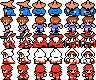
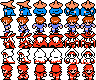
Added music & sound effects Fixed player sprite indexes

Changed region(s): [[0.3125, 0.0, 0.6562, 0.2]]

diff --git a/core/src/com/dommie/ffdemo/scenes/Hud.java b/core/src/com/dommie/ffdemo/scenes/Hud.java
@@ -1,5 +1,7 @@
 package com.dommie.ffdemo.scenes;
 
+import com.badlogic.gdx.Gdx;
+import com.badlogic.gdx.audio.Sound;
 import com.badlogic.gdx.backends.lwjgl.LwjglApplicationConfiguration;
 import com.badlogic.gdx.graphics.OrthographicCamera;
 import com.badlogic.gdx.graphics.Texture;
@@ -35,8 +37,11 @@ public class Hud implements Disposable
     private int curX;
     private int curY;
     private boolean done;
+    private boolean playText;
     float scale;
     //float offset;
+
+	private Sound textSound  = Gdx.audio.newSound(Gdx.files.internal("Music/SFX/Text/text.wav"));
 
 	public Hud(OrthographicCamera o)
 	{
@@ -46,6 +51,7 @@ public class Hud implements Disposable
 
 	public Hud(OrthographicCamera o, String[] texts)
 	{
+		playText = true;
 		scale = LwjglApplicationConfiguration.getDesktopDisplayMode().width /com.dommie.ffdemo.GameInfo.V_WIDTH;
 		//offset = com.dommie.ffdemo.GameInfo.V_WIDTH/2 - (LwjglApplicationConfiguration.getDesktopDisplayMode().width - (com.dommie.ffdemo.GameInfo.V_WIDTH * scale));
 		//System.out.println("OFFSETTTT: " + offset);
@@ -85,6 +91,12 @@ public class Hud implements Disposable
 			{
 				char toPlace = message.charAt(curChar);
 				curChar++;
+
+				if(toPlace != ' ' && playText)
+				{
+					textSound.play();
+					System.out.println("Played");
+				}
 
 				if (toPlace >= 65 && toPlace <= 74)
 					sprites[curY][curX] = new Sprite(new TextureRegion(letters, 8 * (toPlace - 65), 0, 8, 8));//Row 1 (A-J)
@@ -161,15 +173,20 @@ public class Hud implements Disposable
 
 	public void finishText()
 	{
+		playText = false;
 		while(!done)
 			update(5);
+		playText = true;
 	}
 
 	public void quitText()
 	{
 		System.out.println("QUIT TEXT");
 		done = true;
-		dispose();
+
+		//textSound.play();
+		destroy();
+
 		sprites = new Sprite[0][0];
 	}
 
@@ -185,7 +202,7 @@ public class Hud implements Disposable
 		this.width = width;
 		this.height = height;
 
-		dispose();
+		destroy();
 
 		letters = new Texture("Text/Chars.png");
         atlas = new TextureAtlas("Text/Textbox.atlas");
@@ -233,6 +250,12 @@ public class Hud implements Disposable
                 s.draw(sb);
     }
 
+    private void destroy()
+	{
+		atlas.dispose();
+		letters.dispose();
+	}
+
     @Override
     public void dispose()
     {
@@ -243,8 +266,8 @@ public class Hud implements Disposable
         */
 
         //region.getTexture().dispose();
-        atlas.dispose();
-        letters.dispose();
+        destroy();
+        textSound.dispose();
     }
 
 }

diff --git a/core/src/com/dommie/ffdemo/screens/MapScreen.java b/core/src/com/dommie/ffdemo/screens/MapScreen.java
@@ -2,6 +2,8 @@ package com.dommie.ffdemo.screens;
 
 import com.badlogic.gdx.Gdx;
 import com.badlogic.gdx.Input;
+import com.badlogic.gdx.audio.Music;
+import com.badlogic.gdx.audio.Sound;
 import com.badlogic.gdx.graphics.GL20;
 import com.badlogic.gdx.graphics.OrthographicCamera;
 import com.badlogic.gdx.graphics.g2d.TextureAtlas;
@@ -43,7 +45,6 @@ public abstract class MapScreen extends GameScreen{
     private NPC speakingNPC;
 
     private boolean paused;
-
     public MapScreen(GameInfo game, String mapName, float locX, float locY)
     {
     	//justPaused = false;
@@ -229,10 +230,7 @@ public abstract class MapScreen extends GameScreen{
 
     public boolean isTooFarLeft()
     {
-        if(player.b2body.getPosition().x+8 <= 14*16)
-            return true;
-        else
-            return false;
+		return player.b2body.getPosition().x + 8 <= 14 * 16;
     }
 
     public boolean isTooFarRight()
@@ -240,10 +238,7 @@ public abstract class MapScreen extends GameScreen{
         int mapWidth = prop.get("width", Integer.class)+1;
         int mapPixelWidth = mapWidth*16;
 
-        if(player.b2body.getPosition().x+8 >= mapPixelWidth - 14*16 - 1)
-            return true;
-        else
-            return false;
+		return player.b2body.getPosition().x + 8 >= mapPixelWidth - 14 * 16 - 1;
     }
 
     public boolean isTooFarUp()
@@ -251,18 +246,12 @@ public abstract class MapScreen extends GameScreen{
         int mapHeight = prop.get("height", Integer.class)+1;
         int mapPixelHeight = mapHeight*16;
 
-        if(player.b2body.getPosition().y+8 >= mapPixelHeight - 8*16 + 1)
-            return true;
-        else
-            return false;
+		return player.b2body.getPosition().y + 8 >= mapPixelHeight - 8 * 16 + 1;
     }
 
     public boolean isTooFarDown()
     {
-        if(player.b2body.getPosition().y+8 <= 8*16)
-            return true;
-        else
-            return false;
+		return player.b2body.getPosition().y + 8 <= 8 * 16;
     }
     
     public void dispose()

diff --git a/core/src/com/dommie/ffdemo/sprites/Player.java b/core/src/com/dommie/ffdemo/sprites/Player.java
@@ -52,7 +52,7 @@ public class Player extends Sprite implements Disposable
 
 	public Player(World world, MapScreen screen)
 	{
-		super(screen.getAtlas().findRegion("Warrior"));
+		super(screen.getAtlas().findRegion("RedMage"));
 		this.world = world;
 		currentState = State.UP;
 		stateTimer = 0;
@@ -64,7 +64,7 @@ public class Player extends Sprite implements Disposable
 
 		Array<TextureRegion> frames = new Array<TextureRegion>();
 		for(int i = 0; i <= 1; i++)
-			frames.add(new TextureRegion(getTexture(), i*16+getRegionX()-2, getRegionY(), 16, 16));
+			frames.add(new TextureRegion(getTexture(), i*16+getRegionX(), getRegionY()-1, 16, 16));
 
 		runHorizontal = new Animation<TextureRegion>(animSpeed, frames);
 		animFrames.addAll(frames);
@@ -72,14 +72,14 @@ public class Player extends Sprite implements Disposable
 
 		frames = new Array<TextureRegion>();
 		for(int i = 2; i <= 3; i++)
-			frames.add(new TextureRegion(getTexture(), i*16+getRegionX()-1, getRegionY(), 16, 16));
+			frames.add(new TextureRegion(getTexture(), i*16+getRegionX(), getRegionY()-1, 16, 16));
 		runUp = new Animation<TextureRegion>(animSpeed, frames);
 		animFrames.addAll(frames);
 		frames.clear();
 
 		frames = new Array<TextureRegion>();
 		for(int i = 4; i <= 5; i++)
-			frames.add(new TextureRegion(getTexture(), i*16+getRegionX()+1, getRegionY(), 16, 16));
+			frames.add(new TextureRegion(getTexture(), i*16+getRegionX(), getRegionY()-1, 16, 16));
 		runDown = new Animation<TextureRegion>(animSpeed, frames);
 		animFrames.addAll(frames);
 		frames.clear();

diff --git a/core/src/com/dommie/ffdemo/screens/Corneria.java b/core/src/com/dommie/ffdemo/screens/Corneria.java
@@ -1,7 +1,10 @@
 package com.dommie.ffdemo.screens;
 
+import com.badlogic.gdx.Audio;
 import com.badlogic.gdx.Gdx;
 import com.badlogic.gdx.Input;
+import com.badlogic.gdx.audio.Music;
+import com.badlogic.gdx.backends.lwjgl.audio.Ogg;
 import com.badlogic.gdx.graphics.g2d.TextureAtlas;
 import com.badlogic.gdx.math.Rectangle;
 import com.dommie.ffdemo.GameInfo;
@@ -17,9 +20,16 @@ import java.util.ArrayList;
 
 public class Corneria extends MapScreen {
 
+	//private Music m;
     public Corneria(GameInfo game, float locX, float locY)
     {
         super(game, "corneria.tmx", locX, locY);
+
+        m = Gdx.audio.newMusic(Gdx.files.internal("Music/Cornelia/Untitled.ogg"));
+		m.setLooping(true);
+		m.setVolume(0.8f);
+
+		m.play();
 
         npcAtlas = new TextureAtlas("Overworld/Maps/Corneria/NPC/NPCs.atlas");
         String[][] dialogue = new String[1][2];

diff --git a/core/src/com/dommie/ffdemo/screens/GameScreen.java b/core/src/com/dommie/ffdemo/screens/GameScreen.java
@@ -1,6 +1,8 @@
 package com.dommie.ffdemo.screens;
 
 import com.badlogic.gdx.Screen;
+import com.badlogic.gdx.audio.Music;
+import com.badlogic.gdx.audio.Sound;
 import com.badlogic.gdx.graphics.g2d.TextureAtlas;
 import com.badlogic.gdx.maps.tiled.TiledMap;
 import com.badlogic.gdx.maps.tiled.renderers.OrthogonalTiledMapRenderer;
@@ -20,6 +22,8 @@ public abstract class GameScreen implements Screen, Disposable{
 
     protected Viewport gamePort;
     protected Hud hud;
+
+    protected Music m;
 
     //Tiled map variables
     protected TiledMap map;
@@ -107,6 +111,7 @@ public abstract class GameScreen implements Screen, Disposable{
         b2dr.dispose();
         hud.dispose();
         world.dispose();
+        m.dispose();
     }
 
 }
